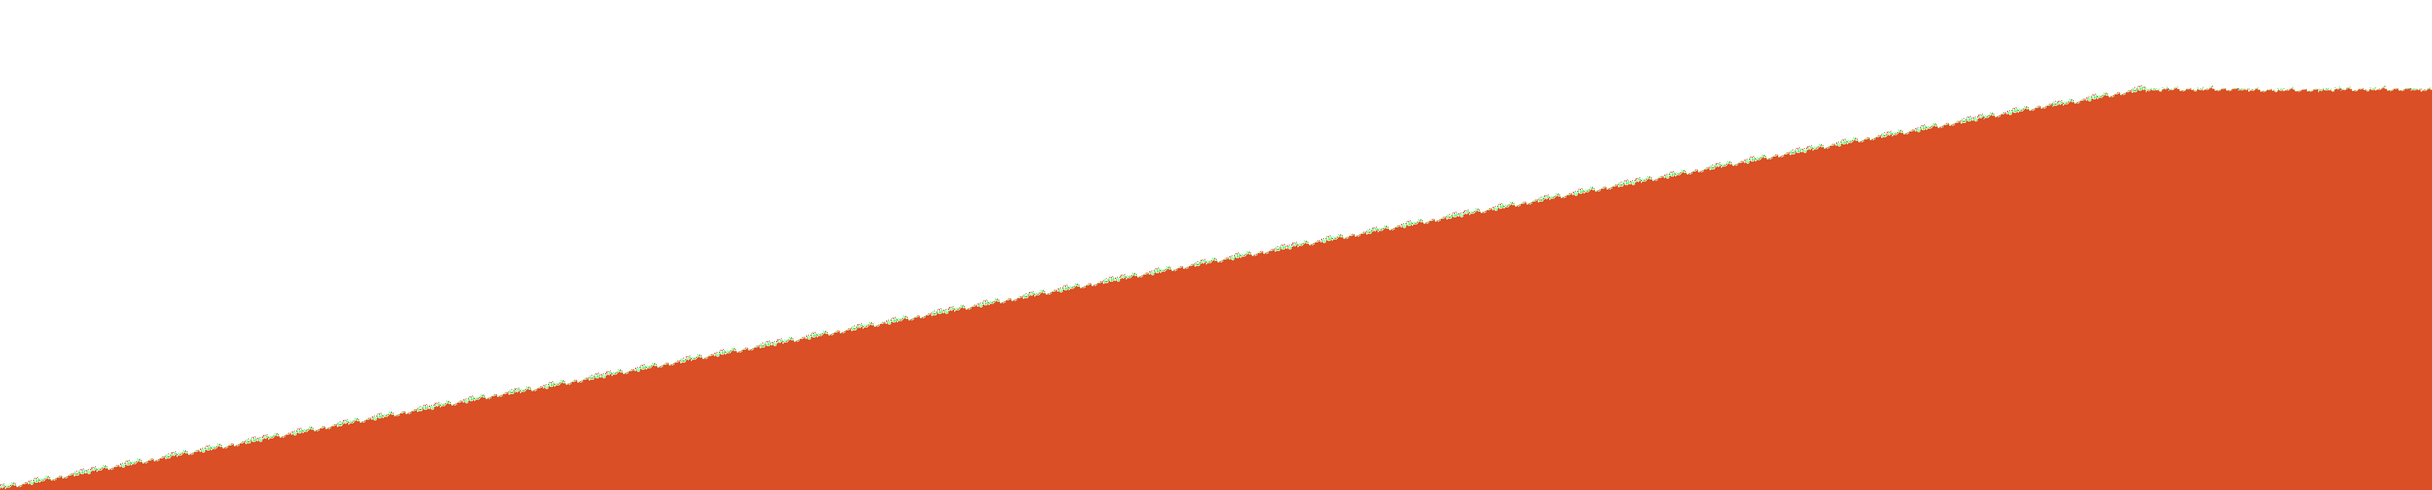
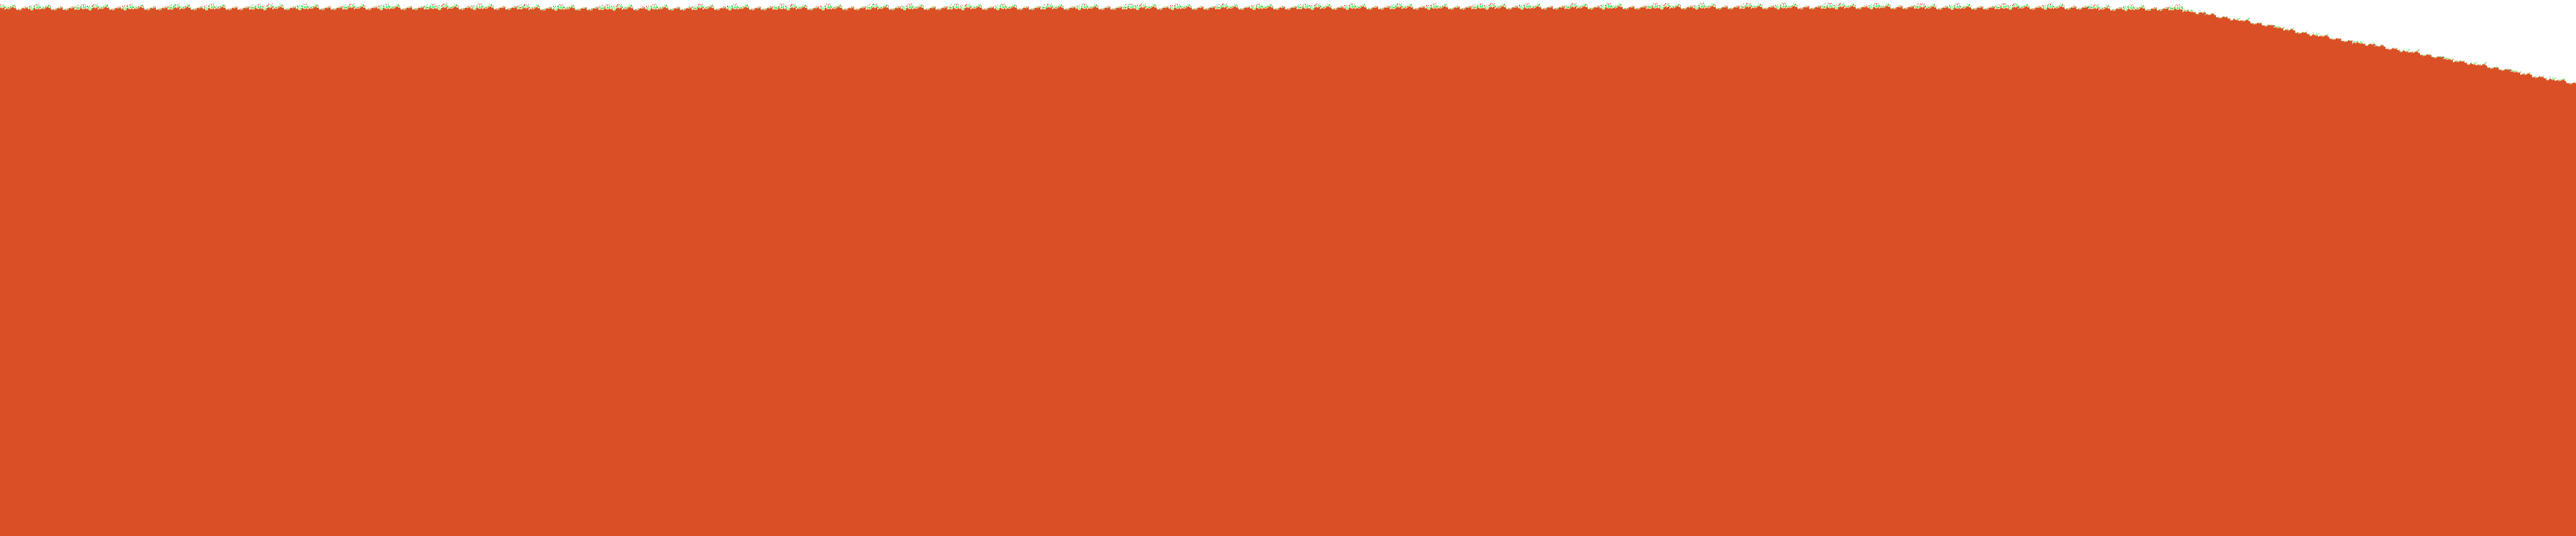
update

diff --git a/js/level_3_stuff.js b/js/level_3_stuff.js
@@ -1,74 +1,63 @@
 function createLevel3Stuff() {
   level3bkgd1 = game.add.sprite(0, 0, 'level 3 layer1');
-  level3bkgd1.width = game.width * 3.4;
+  level3bkgd1.width = game.width * 3.5;
   level3bkgd1.visible = false;
-  // level2bkgd3.height = game.height;
-
+  
   level3bkgd2 = game.add.image(0, 0, 'level 3 layer2');
   level3bkgd2.width = game.width * 3;
-  // level2bkgd1.height = game.height;
   level3bkgd2.visible = false;
 
   level3bkgd3 = game.add.image(0, 0, 'level 3 layer3');
   level3bkgd3.width = game.width * 3;
-  // level2bkgd1.height = game.height;
   level3bkgd3.visible = false;
 
   bigRock = game.add.sprite(0, 0, 'rock');
   bigRock.visible = false;
   bigRock.anchor.setTo(0.5, 0.5);
-  bigRock.state = DEAD;
 }
 
 function buildLevel3() {
   amountRocks = curLevel;
   game.stage.backgroundColor = '#008ADA';
-
-  level3bkgd1.reset(0, game.height * 0.95);
   level3bkgd2.reset(0, 0);
   level3bkgd3.reset(0, 0);
-  hunter.reset(145, 500);
-  hunter.frame = 7;
+  //level3bkgd1.anchor.y=1;
+ 
+  level3bkgd1.reset(0, game.height+level3bkgd1.height/2-20);
   game.physics.box2d.enable(level3bkgd1);
+  level3bkgd1.body.rotation = 25;
   level3bkgd1.body.static = true;
-  level3bkgd1.body.clearFixtures();
-  level3bkgd1.body.loadPolygon('physicsData', 'hill', level3bkgd1);
-  hunter.body.setBodyContactCallback(
-    level3bkgd1.body,
-    onGroundCallback,
-    this,
-  );
+  //level3bkgd1.body.clearFixtures();
+  //level3bkgd1.body.loadPolygon('physicsData', 'hill', level3bkgd1);
+  // // hunter.body.setBodyContactCallback(
+  //   level3bkgd1.body,
+  //   onGroundCallback,
+  //   this,
+  // );
 
-  // for (let index = 0; index < amountRocks; index += 1) {
-  //   rocks[index].reset(0, 0);
-  // }
-
-  bigRock.reset(1500, 200);
-  bigRock.scale.setTo(7, 7);
-  game.physics.box2d.enable(bigRock);
-
-  levelWidth = game.width * 2;
+  hunter.reset(145, 400);
+  hunter.frame = 7;
+  hunter.body.friction = 0;
+    levelWidth = game.width * 2;
   levelHeight = game.height;
 }
 
 function updateLevel3() {
   if (hunter.x < 1190) {
-      if (game.rnd.integerInRange(1, 200) === 1) 
+     if (game.rnd.integerInRange(1, 2000) === 1) 
         spawnRock();
-
+  }
     if (hunter.x < 20) {
-      currLives -= 1;
-      showintro = 1;
-      buildLevel3();
+      hunter.body.x = 20;
     }
-
+    
     moveRocks();
     drawScore();
-    drawLives();
+    drawLives();  
     hunter.body.rotation = 0;
-    level3bkgd2.x = game.camera.x * 0.05;
     game.camera.follow(hunter);
-
+   level3bkgd2.x = game.camera.x * 0.05;
+ 
     hunter.rotation.toFixed();
     if (game.cursors.right.isDown) {
       hunter.body.velocity.x += 3;
@@ -88,7 +77,7 @@ function updateLevel3() {
     if (hunter.frame > 9) {
       hunter.frame = 7;
     }
-  } else {
+ 
     if (!hunter.isJumping) {
       hunter.body.velocity.y = -500;
       if (hunter.body.velocity.x < 50)
@@ -103,8 +92,6 @@ function updateLevel3() {
       buildLevel();
     }
   }
-
-}
 
 function killObjects3() {
   for (let index = 0; index < amountRocks; index += 1) {
@@ -130,12 +117,14 @@ function spawnRock() {
 function moveRocks() {
 rocks.forEach(rock => {
       rock.rotation -= 60;
-      if (game.rnd.integerInRange(1, 200) === 1) {
+      if (game.rnd.integerInRange(1, 500) === 1) {
         rock.body.velocity.y = -200;
       }
-      if (rock.x < game.camera.x) {
+      const rockRadius = rock.width/2;
+      if (rock.x-rockRadius < game.camera.x+rockRadius) {
         curScore += 100;
-        spawnRock();
+        rock.destroy();
+      //  spawnRock();
       }
 });
 }

diff --git a/js/game.js b/js/game.js
@@ -27,7 +27,7 @@ function gameCreate() {
   game.physics.box2d.restitution = 0.1;
   game.physics.box2d.debugDraw.joints = true;
 
-  //createLevel1Stuff();
+  createLevel1Stuff();
 
   // crocs = game.add.group();
   // bubbles = game.add.group();
@@ -36,7 +36,7 @@ function gameCreate() {
   rocks = game.add.group();
   createLevel3Stuff();
 
-  createLevel4Stuff();
+  //createLevel4Stuff();
 
   hunter = game.add.sprite(0, 0, 'hunter');
   game.physics.box2d.enable(hunter);
@@ -178,7 +178,7 @@ function update() {
     mainMenuUpdate();
     return;
   }
-  if (currLives === 0) {
+  if (currLives === 0 && !gameOver) {
     gameOver = true;
     // draw text
     drawInfoText(
@@ -251,10 +251,6 @@ function drawLives() {
   }
 }
 
-// function drawLevel() {
-//   drawText(850, 20, `LEVEL ${`00${curLevel}`.slice(-3)}`, 20);
-// }
-
 function drawText(x, y, str) {
   let newX = x;
   const text = str.toUpperCase();
@@ -280,7 +276,10 @@ function render() {
    if (level3bkgd1 != null){
     game.debug.body(level3bkgd1);
   game.debug.box2dWorld();
-   }
+  var bodies = game.physics.box2d.getBodies();
+  bodies.forEach(element => {
+ });
+}
   // if (hunter != null)
   //   game.debug.body(hunter);
   // for (let index = 0; index < amountCrocs; index += 1) {

diff --git a/js/preload.js b/js/preload.js
@@ -2,8 +2,6 @@ var loadText;
 var progress=0;
 function preload() {
    game.load.crossOrigin = 'anonymous';
-  // game.scale.pageAlignHorizontally = true;
-  // game.scale.pageAlignVertically = true;
   game.scale.refresh();
   
   game.load.onLoadStart.add(loadStart, this);
@@ -66,7 +64,7 @@ function preload() {
   game.load.image('maxxdaddy', 'assets/images/maxxdaddy.gif');
   game.load.spritesheet('tribesman', 'assets/images/tribesman.png', 40, 90);
   game.load.spritesheet('cauldron', 'assets/images/cauldron.png', 71, 70);
-  game.load.spritesheet('girl', 'assets/images/girl.png');
+  game.load.spritesheet('girl', 'assets/images/girl.png',40,64);
   game.load.image('crocKill', 'assets/images/crocKill.png');
   game.load.image('airLabel', 'assets/images/airLabel.png');
   game.load.spritesheet('air', 'assets/images/airCount.png', 16, 16);

diff --git a/js/boot.js b/js/boot.js
@@ -24,12 +24,11 @@ let splash4;
 let splash5;
 let maxxdaddy;
 let currLives = 3;
-let curLevel = 3;
+let curLevel = 1;
 let curVine = 0;
 let textTimer;
 let levelWidth = 0;
 let levelHeight = 0;
-// const lettersUsed = 0;
 let curScore = 0;
 const vines = [];
 let crocs;
@@ -42,16 +41,12 @@ let falling = false;
 let readyToJump = false;
 let isJumping = false;
 let hunterOnRope = false;
-// let currentSegment = 0;
 let showintro = 1;
-// let ready_counter = 0;
 let overWater = false;
 let onGround = false;
 let gameOver = false;
 let vineSegment;
 let amountRocks;
-// const amount_crocs = 0;
-// const amount_rocks = 0;
 let infoText;
 
 let airLeftBlock = MAX_AIR - 1;
